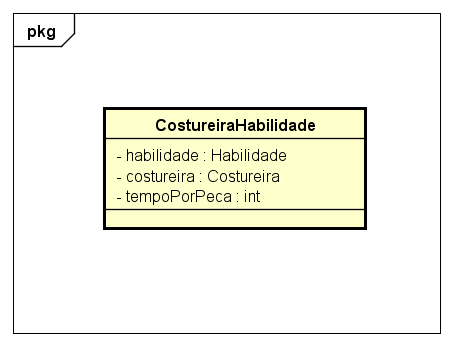
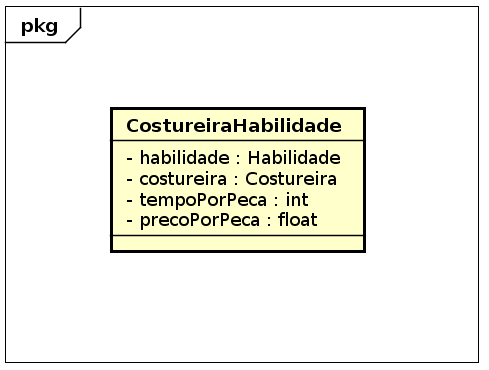
imagem 12 e resultados

Changed region(s): [[0.2163, 0.289, 0.8344, 0.6936], [0.0, 0.0, 0.989, 0.9827]]

diff --git a/NuapaTex_Univas/editaveis/13_Resultados.tex b/NuapaTex_Univas/editaveis/13_Resultados.tex
@@ -183,8 +183,8 @@ A Figura ~\ref{fig:custo_entre_costureiras} mostra a definição de tempo e cust
 
 \begin{figure}[h!]
 	\centerline{\includegraphics[scale=0.4]{./imagens/resultado_teste2.png}}
-	\caption[Resultado da distribuição de lotes.]
-	{Resultado da distribuição de lotes. \textbf{Fonte:}
+	\caption[Resultado da distribuição de lotes considerando o custo]
+	{Resultado da distribuição de lotes considerando o custo \textbf{Fonte:}
 	Desenvolvido pelos autores}
 	\label{fig:resultado_custo}
 \end{figure}
